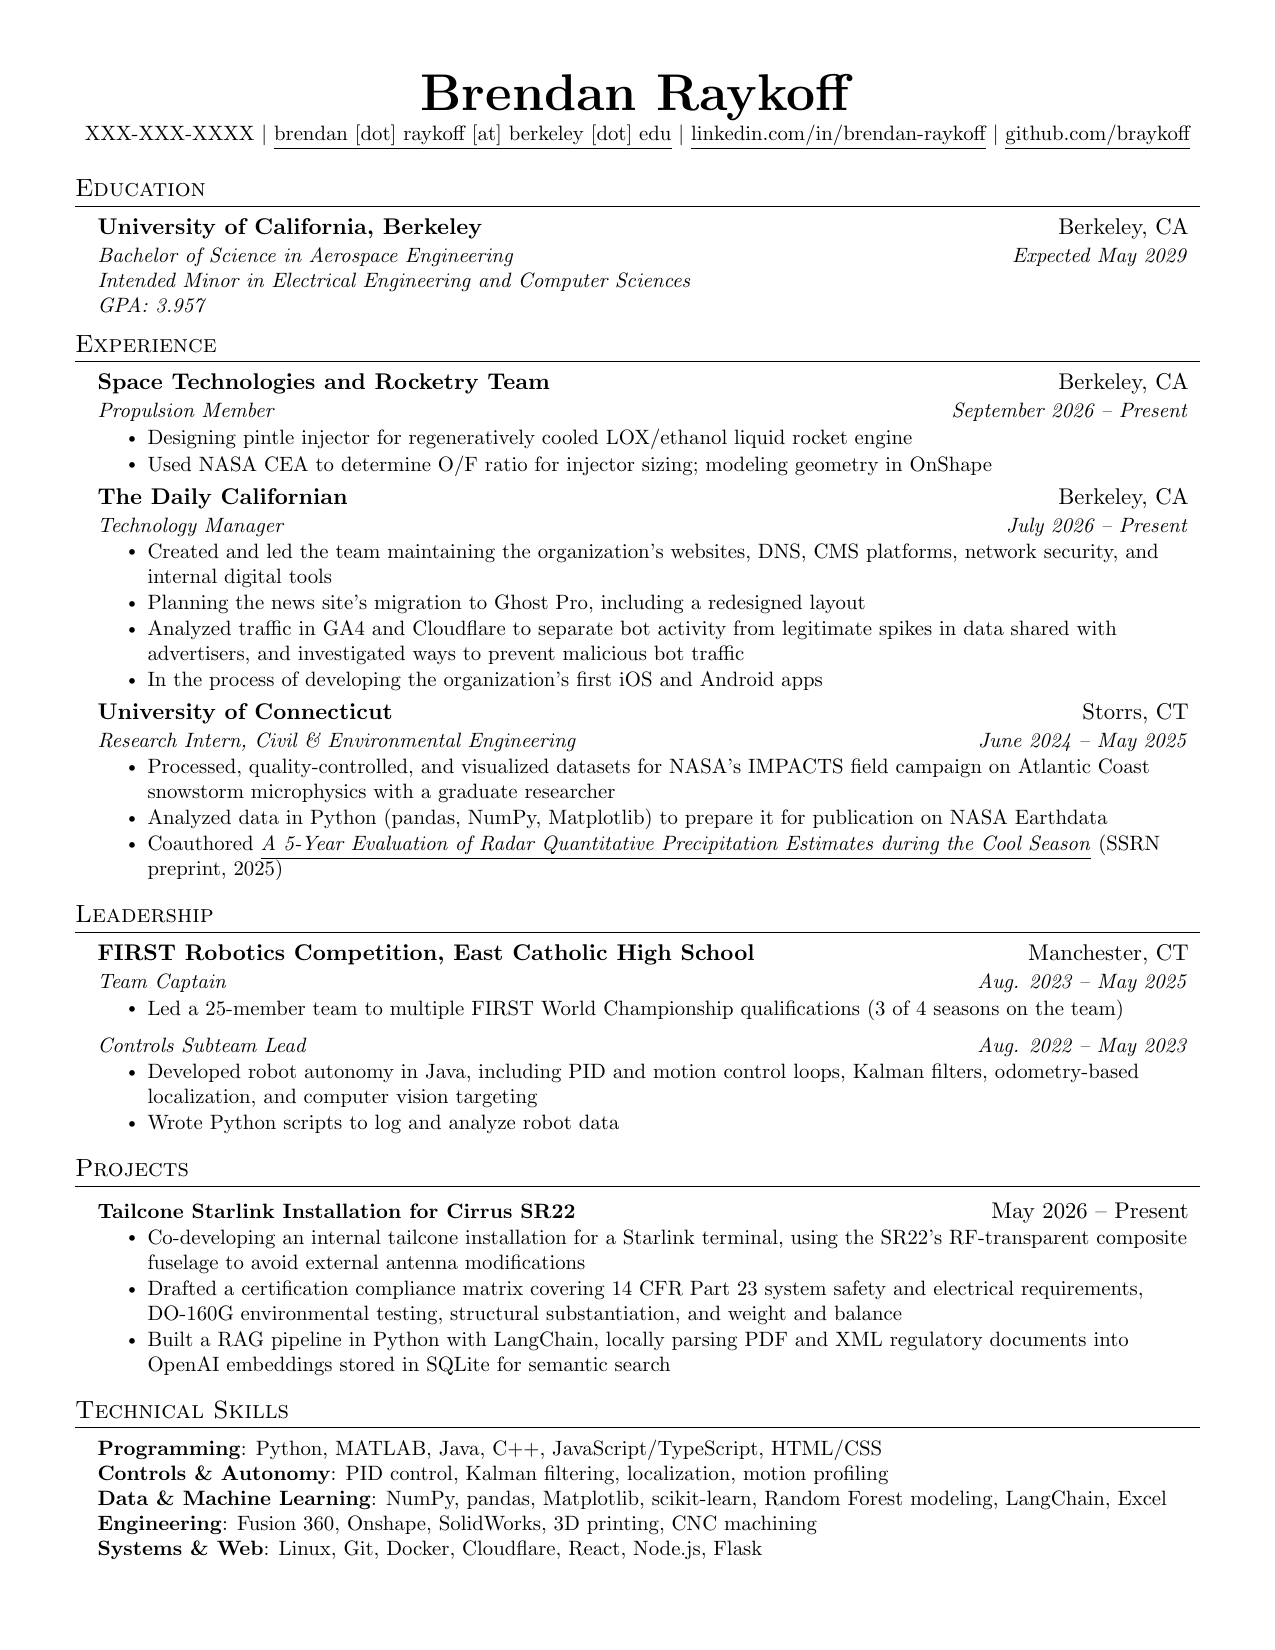
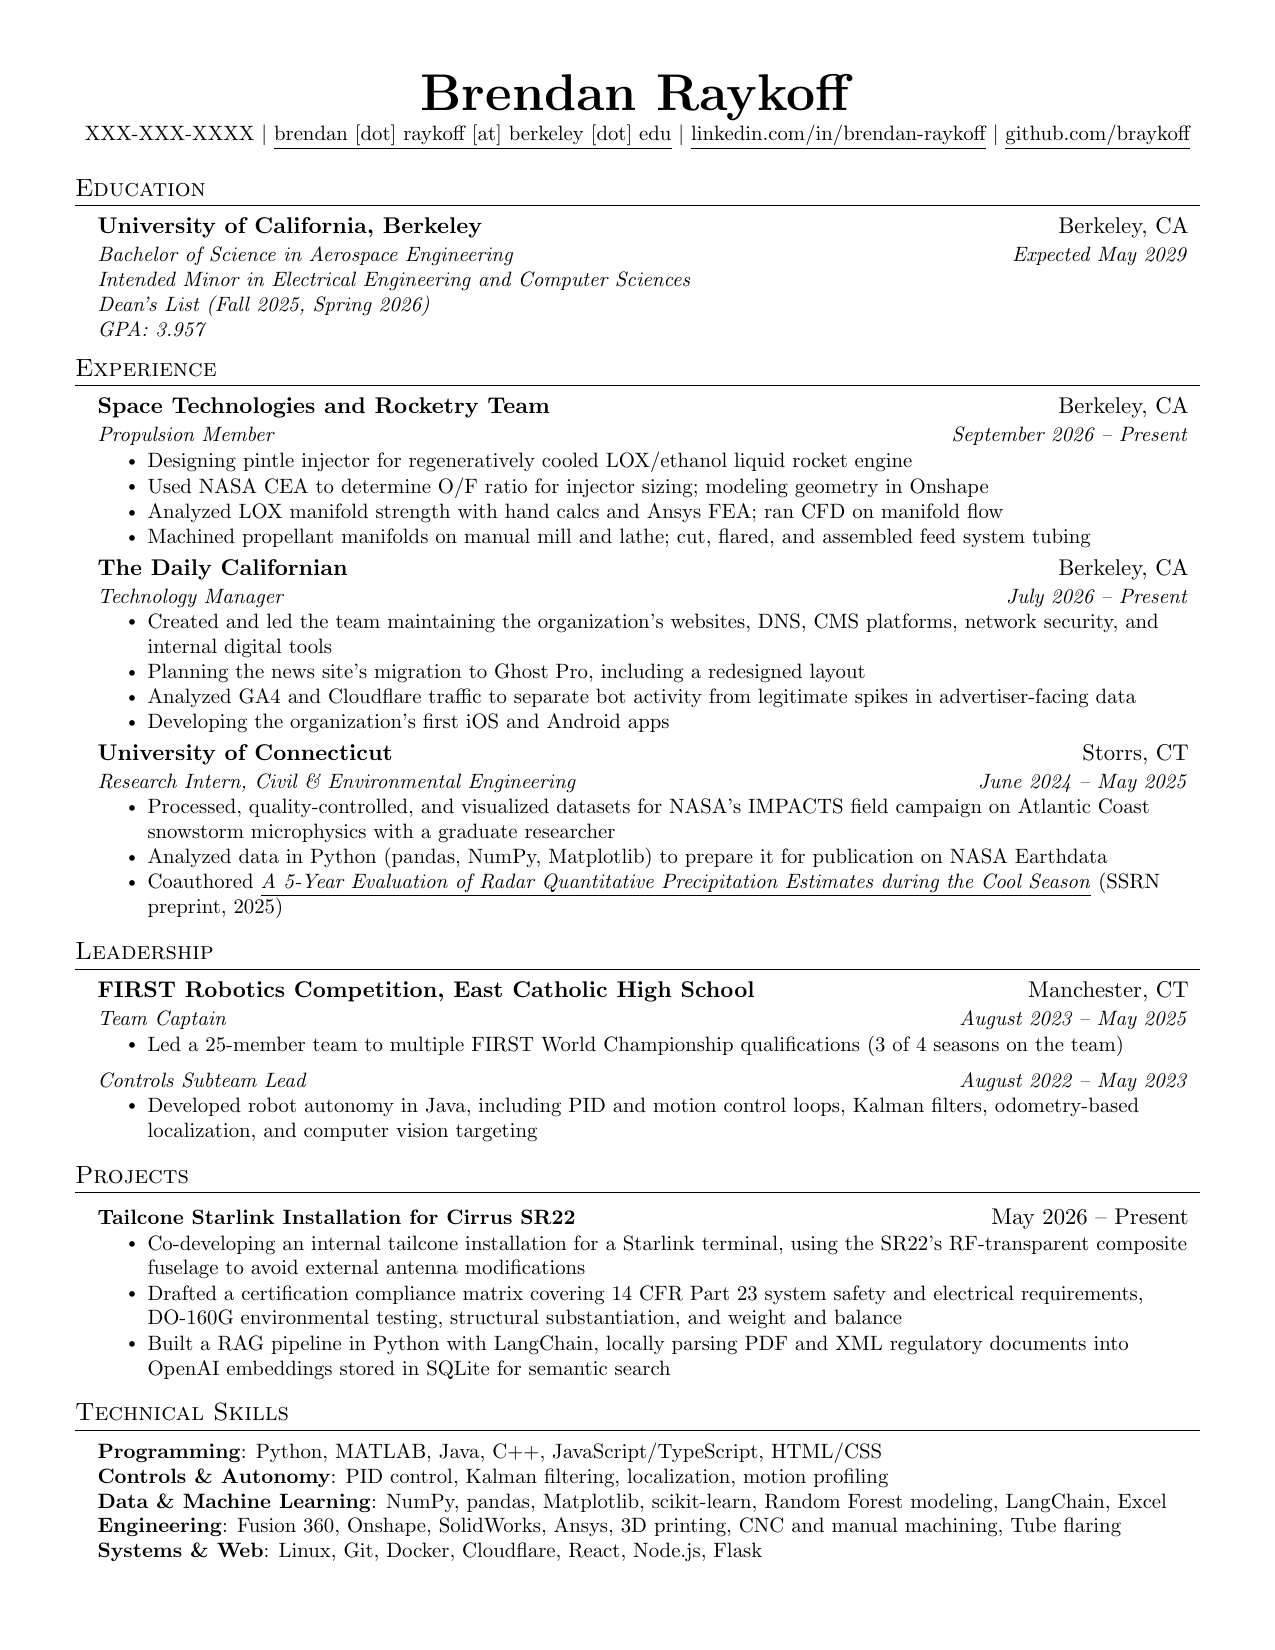
Updated resume

Changed region(s): [[0.0612, 0.1236, 0.9482, 0.9582], [0.8259, 0.1236, 0.9482, 0.1545], [0.4894, 0.1545, 0.52, 0.1855]]

diff --git a/resume.tex b/resume.tex
@@ -141,17 +141,19 @@
       {Propulsion Member}{September 2026 -- Present}
       \resumeItemListStart
         \resumeItem{Designing pintle injector for regeneratively cooled LOX/ethanol liquid rocket engine}
-        \resumeItem{Used NASA CEA to determine O/F ratio for injector sizing; modeling geometry in OnShape}
+        \resumeItem{Used NASA CEA to determine O/F ratio for injector sizing; modeling geometry in Onshape}
+        \resumeItem{Analyzed LOX manifold strength with hand calcs and Ansys FEA; ran CFD on manifold flow}
+        \resumeItem{Machined propellant manifolds on manual mill and lathe; cut, flared, and assembled feed system tubing}
       \resumeItemListEnd
 
     \resumeSubheading
       {The Daily Californian}{Berkeley, CA}
       {Technology Manager}{July 2026 -- Present}
       \resumeItemListStart
-        \resumeItem{Created and led the team maintaining the organization's websites, DNS, CMS platforms,  network security, and internal digital tools}
+        \resumeItem{Created and led the team maintaining the organization's websites, DNS, CMS platforms, network security, and internal digital tools}
         \resumeItem{Planning the news site's migration to Ghost Pro, including a redesigned layout}
-        \resumeItem{Analyzed traffic in GA4 and Cloudflare to separate bot activity from legitimate spikes in data shared with advertisers, and investigated ways to prevent malicious bot traffic}
-        \resumeItem{In the process of developing the organization's first iOS and Android apps}
+        \resumeItem{Analyzed GA4 and Cloudflare traffic to separate bot activity from legitimate spikes in advertiser-facing data}
+        \resumeItem{Developing the organization's first iOS and Android apps}
       \resumeItemListEnd
 
       \resumeSubheading
@@ -170,16 +172,15 @@
   \resumeSubHeadingListStart
     \resumeSubheading
       {FIRST Robotics Competition, East Catholic High School}{Manchester, CT}
-      {Team Captain}{Aug. 2023 -- May 2025}
+      {Team Captain}{August 2023 -- May 2025}
       \resumeItemListStart
         \resumeItem{Led a 25-member team to multiple FIRST World Championship qualifications (3 of 4 seasons on the team)}
       \resumeItemListEnd
 
     \resumeSubSubheading
-      {Controls Subteam Lead}{Aug. 2022 -- May 2023}
+      {Controls Subteam Lead}{August 2022 -- May 2023}
       \resumeItemListStart
         \resumeItem{Developed robot autonomy in Java, including PID and motion control loops, Kalman filters, odometry-based localization, and computer vision targeting}
-        \resumeItem{Wrote Python scripts to log and analyze robot data}
       \resumeItemListEnd
 
   \resumeSubHeadingListEnd
@@ -203,7 +204,7 @@
      \textbf{Programming}{: Python, MATLAB, Java, C++, JavaScript/TypeScript, HTML/CSS} \\
 \textbf{Controls \& Autonomy}{: PID control, Kalman filtering, localization, motion profiling} \\
 \textbf{Data \& Machine Learning}{: NumPy, pandas, Matplotlib, scikit-learn, Random Forest modeling, LangChain, Excel} \\
-\textbf{Engineering}{: Fusion 360, Onshape, SolidWorks, 3D printing, CNC machining } \\
+\textbf{Engineering}{: Fusion 360, Onshape, SolidWorks, Ansys, 3D printing, CNC and manual machining, Tube flaring} \\
 \textbf{Systems \& Web}{: Linux, Git, Docker, Cloudflare, React, Node.js, Flask}
     }}
  \end{itemize}
